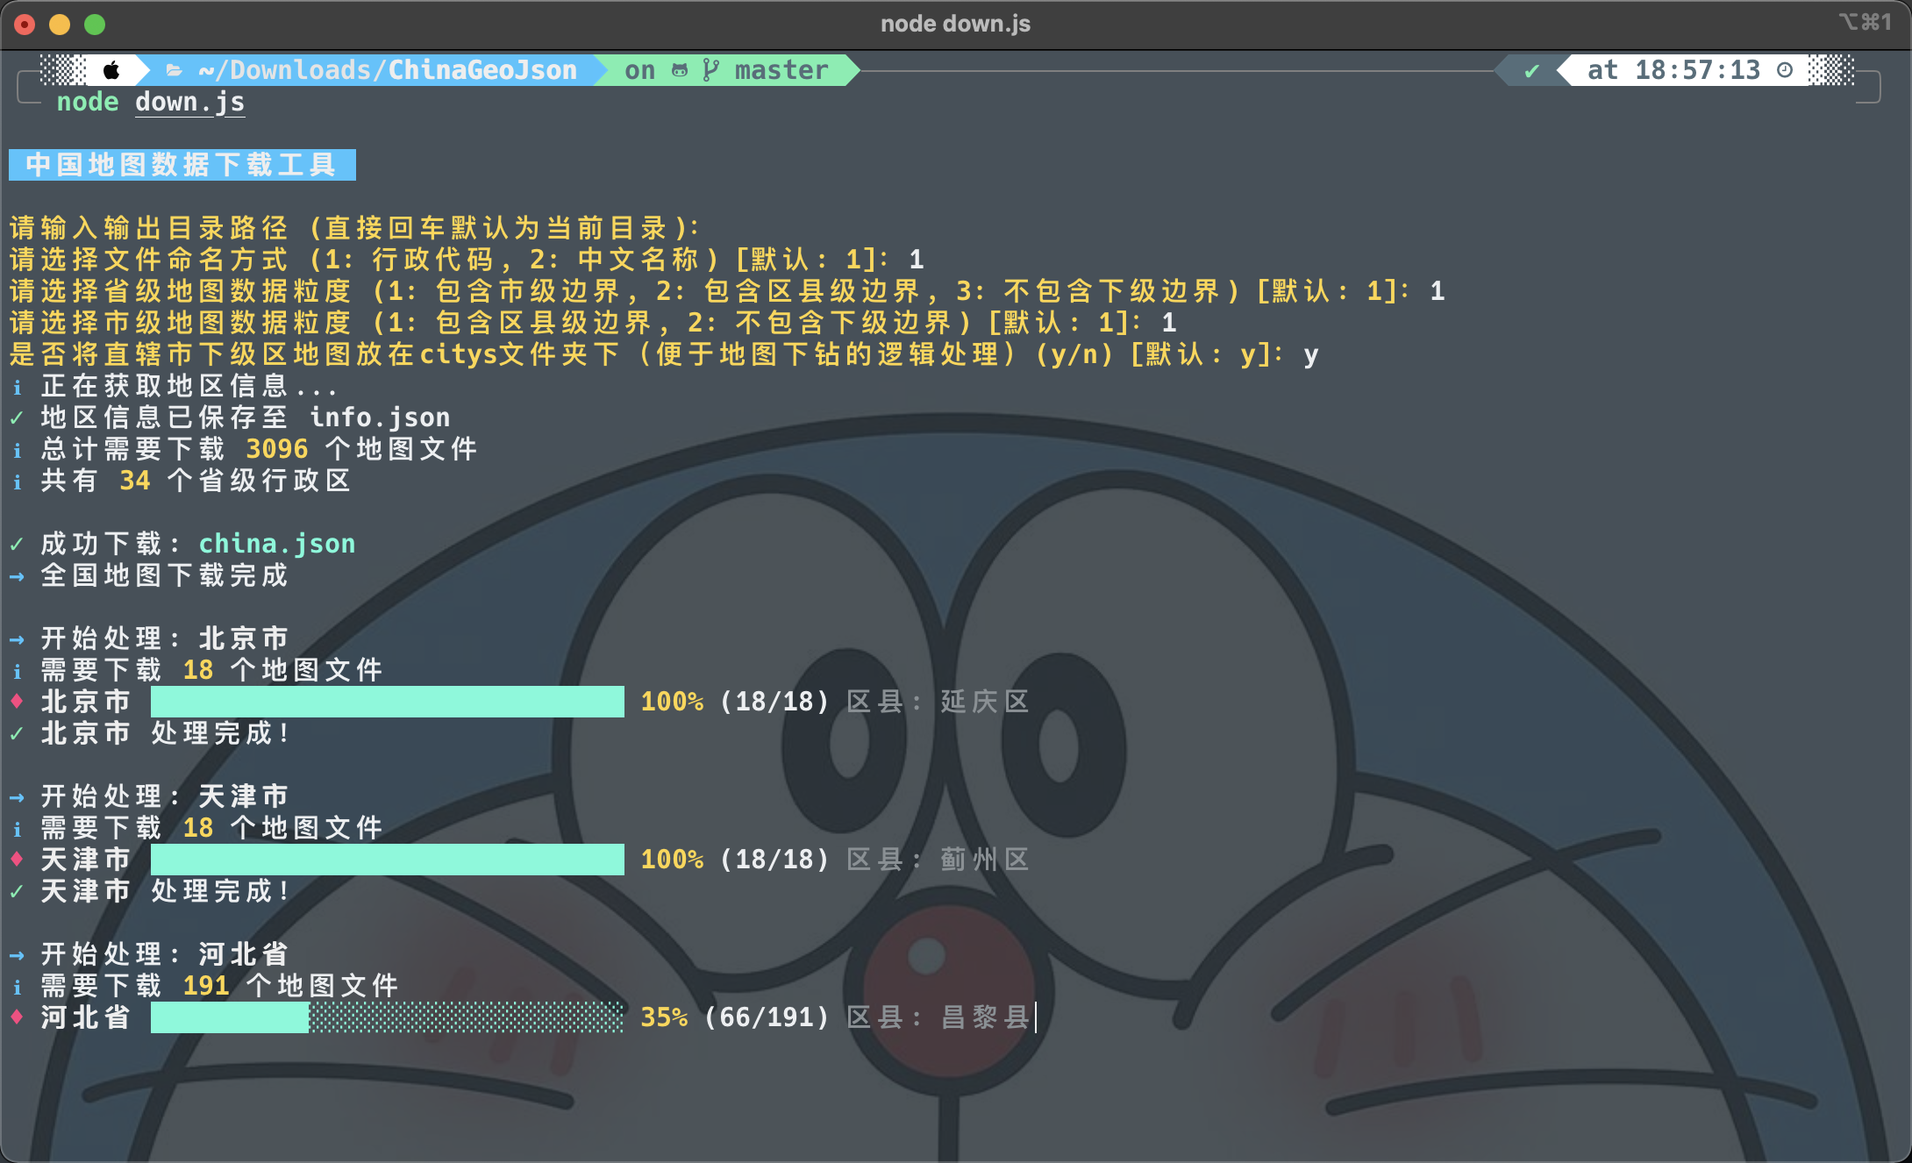
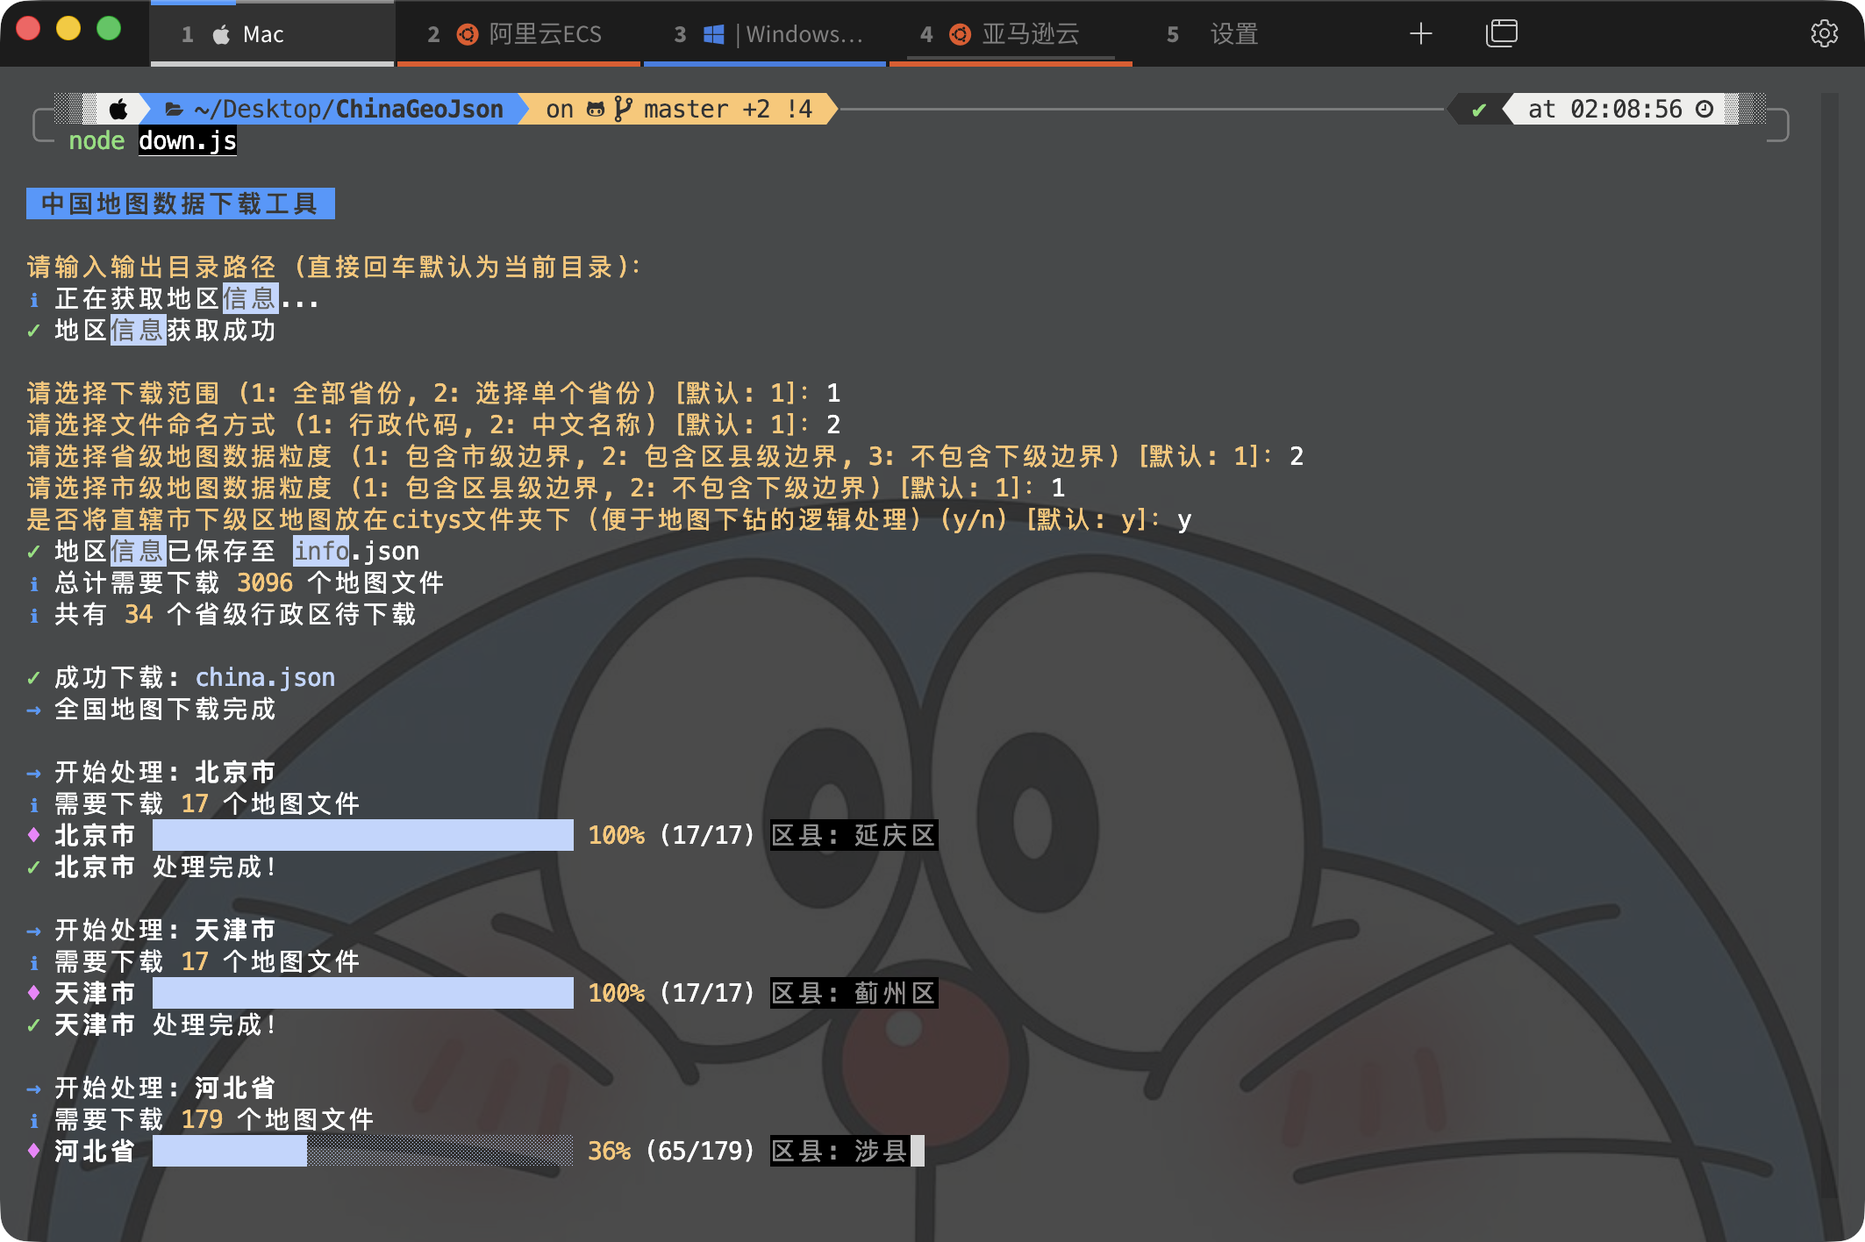
feat: 新增单个省份选择功能优化下载中断处理
- 添加 SIGINT 处理，在中断时清理未完成文件
- 实现省份选择功能，支持按需下载特定省份数据
- 改进进度条显示，适配非 TTY 环境
- 增加文件写入状态追踪，确保数据完整性
- 优化资源释放，防止内存泄漏

diff --git a/down.js b/down.js
@@ -11,6 +11,26 @@ const infoUrl = 'https://geo.datav.aliyun.com/areas_v3/bound/infos.json';
 // 控制直辖市下级区是否放在 citys 文件夹下（便于地图下钻的逻辑处理）
 const MUNICIPALITIES = ['110000', '120000', '310000', '500000']; // 北京、天津、上海、重庆
 let municipalityChildrenInCitys; // 控制直辖市下级区是否放在 citys 文件夹下
+
+// 当前正在写入的文件路径（用于 SIGINT 清理）
+let currentWritingFile = null;
+
+// Ctrl+C 时清理不完整的文件
+process.on('SIGINT', () => {
+    console.log(`\n${colors.yellow}⚠${colors.reset} 检测到中断信号 (Ctrl+C)...`);
+    
+    if (currentWritingFile && fs.existsSync(currentWritingFile)) {
+        try {
+            fs.unlinkSync(currentWritingFile);
+            console.log(`${colors.yellow}⚠${colors.reset} 已清理不完整文件: ${colors.cyan}${currentWritingFile}${colors.reset}`);
+        } catch (err) {
+            console.error(`${colors.red}✗${colors.reset} 清理文件失败:`, err.message);
+        }
+    }
+    
+    console.log(`${colors.blue}ℹ${colors.reset} 程序已退出\n`);
+    process.exit(0);
+});
 // // 这是输出目录
 // const outputDir = './';
 
@@ -61,13 +81,20 @@ class ProgressBar {
         const empty = '░'.repeat(emptyWidth);
         const bar = `${filled}${empty}`;
 
-        process.stdout.clearLine(0);
-        process.stdout.cursorTo(0);
-        process.stdout.write(
-            `${colors.magenta}♦${colors.reset} ${colors.bright}${this.name}${colors.reset} ` +
-            `${colors.cyan}${bar}${colors.reset} ${colors.yellow}${percentage}%${colors.reset} ` +
-            `(${this.current}/${this.total}) ${colors.dim}${currentItem}${colors.reset}`
-        );
+        if (process.stdout.isTTY) {
+            process.stdout.clearLine(0);
+            process.stdout.cursorTo(0);
+            process.stdout.write(
+                `${colors.magenta}♦${colors.reset} ${colors.bright}${this.name}${colors.reset} ` +
+                `${colors.cyan}${bar}${colors.reset} ${colors.yellow}${percentage}%${colors.reset} ` +
+                `(${this.current}/${this.total}) ${colors.dim}${currentItem}${colors.reset}`
+            );
+        } else {
+            // 非 TTY 环境：简化输出，避免刷屏
+            if (this.current === this.total || this.current % 10 === 0) {
+                console.log(`[${this.name}] ${percentage}% (${this.current}/${this.total}) ${currentItem}`);
+            }
+        }
     }
 
     complete() {
@@ -89,6 +116,8 @@ const httpsGet = async (url, retries = 3) => {
             const response = await new Promise((resolve, reject) => {
                 https.get(url, (res) => {
                     if (res.statusCode !== 200) {
+                        // 消耗响应流释放资源，防止内存泄漏
+                        res.resume();
                         reject(new Error(`HTTP 状态码: ${res.statusCode}`));
                         return;
                     }
@@ -138,6 +167,13 @@ const getFileName = (code, info, type = '', nameFormat) => {
     }
 };
 
+// 追踪写入状态，便于中断时清理
+const safeWriteFile = (filePath, content) => {
+    currentWritingFile = filePath;
+    fs.writeFileSync(filePath, content);
+    currentWritingFile = null; // 写入完成清除追踪
+};
+
 // 修改 downloadJson 函数，添加 useFullVersion 参数
 const downloadJson = async (url, outputPath, info, progressBar = null, currentItem = '', useFullVersion = false) => {
     try {
@@ -146,7 +182,7 @@ const downloadJson = async (url, outputPath, info, progressBar = null, currentIt
             try {
                 const fullUrl = url.replace('.json', '_full.json');
                 const data = await httpsGet(fullUrl);
-                fs.writeFileSync(outputPath, JSON.stringify(data));
+                safeWriteFile(outputPath, JSON.stringify(data));
                 if (progressBar) {
                     progressBar.update(progressBar.current + 1, currentItem);
                 } else {
@@ -160,7 +196,7 @@ const downloadJson = async (url, outputPath, info, progressBar = null, currentIt
 
         // 下载基础版本
         const data = await httpsGet(url);
-        fs.writeFileSync(outputPath, JSON.stringify(data));
+        safeWriteFile(outputPath, JSON.stringify(data));
         if (progressBar) {
             progressBar.update(progressBar.current + 1, currentItem);
         } else {
@@ -184,6 +220,72 @@ const main = async () => {
         const outputDir = await question(`${colors.yellow}请输入输出目录路径 (直接回车默认为当前目录)：${colors.reset}`);
         const finalOutputDir = outputDir || './';
 
+        // 获取地区信息用于省份选择
+        console.log(`${colors.blue}ℹ${colors.reset} 正在获取地区信息...`);
+        const areaInfos = await httpsGet(infoUrl);
+        if (!areaInfos) {
+            console.error(`${colors.red}✗${colors.reset} 获取地区信息失败`);
+            return;
+        }
+        console.log(`${colors.green}✓${colors.reset} 地区信息获取成功\n`);
+
+        // 提取所有省级行政区
+        const provinces = Object.entries(areaInfos)
+            .filter(([code]) => code.endsWith('0000') && code !== '100000')
+            .map(([code, info]) => ({ code, name: info.name }));
+
+        // 选择下载范围：全部省份 or 指定省份
+        const downloadScopeAnswer = await question(`${colors.yellow}请选择下载范围 (1: 全部省份, 2: 选择指定省份) [默认: 1]：${colors.reset}`);
+        
+        let selectedProvinces = provinces; // 默认全部省份
+        
+        if (downloadScopeAnswer === '2') {
+            // 列出所有省份
+            console.log(`\n${colors.bright}可选省份列表：${colors.reset}`);
+            provinces.forEach((province, index) => {
+                const num = String(index + 1).padStart(2, ' ');
+                // 每行显示4个省份
+                const suffix = (index + 1) % 4 === 0 ? '\n' : '\t';
+                process.stdout.write(`${colors.cyan}${num}.${colors.reset} ${province.name}${suffix}`);
+            });
+            // 确保换行
+            if (provinces.length % 4 !== 0) console.log('');
+            console.log('');
+
+            const provinceIndexAnswer = await question(`${colors.yellow}请输入省份序号，多个用英文逗号分隔 (如: 1,5,11)：${colors.reset}`);
+            
+            // 解析输入的多个序号
+            const inputIndices = provinceIndexAnswer.split(',').map(s => s.trim());
+            const validProvinces = [];
+            const invalidIndices = [];
+            
+            for (const indexStr of inputIndices) {
+                const idx = parseInt(indexStr, 10) - 1;
+                if (idx >= 0 && idx < provinces.length && !isNaN(idx)) {
+                    // 避免重复添加
+                    if (!validProvinces.find(p => p.code === provinces[idx].code)) {
+                        validProvinces.push(provinces[idx]);
+                    }
+                } else {
+                    invalidIndices.push(indexStr);
+                }
+            }
+            
+            // 报告无效序号
+            if (invalidIndices.length > 0) {
+                console.log(`${colors.yellow}⚠${colors.reset} 忽略无效序号: ${invalidIndices.join(', ')}`);
+            }
+            
+            if (validProvinces.length === 0) {
+                console.error(`${colors.red}✗${colors.reset} 没有有效的省份序号，退出程序`);
+                return;
+            }
+            
+            selectedProvinces = validProvinces;
+            const selectedNames = selectedProvinces.map(p => p.name).join('、');
+            console.log(`${colors.green}✓${colors.reset} 已选择 ${colors.bright}${selectedProvinces.length}${colors.reset} 个省份: ${colors.bright}${selectedNames}${colors.reset}\n`);
+        }
+
         // 获取用户选择的命名方式
         const nameFormatAnswer = await question(`${colors.yellow}请选择文件命名方式 (1: 行政代码, 2: 中文名称) [默认: 1]：${colors.reset}`);
         const nameFormat = nameFormatAnswer === '2' ? 'chinese' : 'adcode';
@@ -206,42 +308,33 @@ const main = async () => {
         createDir(path.join(finalOutputDir, 'citys'));
         createDir(path.join(finalOutputDir, 'county'));
 
-        // 获取地区信息
-        console.log(`${colors.blue}ℹ${colors.reset} 正在获取地区信息...`);
-        const areaInfos = await httpsGet(infoUrl);
-        if (!areaInfos) return;
-
         // 保存压缩版的 info.json
         fs.writeFileSync(path.join(finalOutputDir, 'info.json'), JSON.stringify(areaInfos));
         console.log(`${colors.green}✓${colors.reset} 地区信息已保存至 info.json`);
 
-        // 计算总任务数
+        // 计算总任务数（基于选中的省份）
         let totalFiles = 1; // 全国地图
-        let provinceCount = 0;
-        for (const [adcode, info] of Object.entries(areaInfos)) {
-            if (adcode.endsWith('0000') && adcode !== '100000') {
-                provinceCount++;
-                const provinceCode = adcode;
-                const cities = Object.entries(areaInfos).filter(([code]) => 
-                    code.startsWith(provinceCode.slice(0, 2)) && 
-                    code.endsWith('00') && 
-                    code !== provinceCode
-                );
-                totalFiles++; // 省级地图
-                totalFiles += cities.length; // 市级地图
+        for (const province of selectedProvinces) {
+            const provinceCode = province.code;
+            const cities = Object.entries(areaInfos).filter(([code]) => 
+                code.startsWith(provinceCode.slice(0, 2)) && 
+                code.endsWith('00') && 
+                code !== provinceCode
+            );
+            totalFiles++; // 省级地图
+            totalFiles += cities.length; // 市级地图
 
-                for (const [cityCode] of cities) {
-                    const counties = Object.entries(areaInfos).filter(([code]) => 
-                        code.startsWith(cityCode.slice(0, 4)) && 
-                        !code.endsWith('00')
-                    );
-                    totalFiles += counties.length; // 县级地图
-                }
+            for (const [cityCode] of cities) {
+                const counties = Object.entries(areaInfos).filter(([code]) => 
+                    code.startsWith(cityCode.slice(0, 4)) && 
+                    !code.endsWith('00')
+                );
+                totalFiles += counties.length; // 县级地图
             }
         }
 
         console.log(`${colors.blue}ℹ${colors.reset} 总计需要下载 ${colors.yellow}${totalFiles}${colors.reset} 个地图文件`);
-        console.log(`${colors.blue}ℹ${colors.reset} 共有 ${colors.yellow}${provinceCount}${colors.reset} 个省级行政区\n`);
+        console.log(`${colors.blue}ℹ${colors.reset} 共有 ${colors.yellow}${selectedProvinces.length}${colors.reset} 个省级行政区待下载\n`);
 
         // 下载全国地图
         const chinaInfo = areaInfos['100000'];
@@ -252,86 +345,85 @@ const main = async () => {
         );
         console.log(`${colors.blue}→${colors.reset} 全国地图下载完成\n`);
 
-        // 处理省级数据
-        for (const [adcode, info] of Object.entries(areaInfos)) {
-            if (adcode.endsWith('0000') && adcode !== '100000') {
-                const provinceCode = adcode;
-                
-                // 获取所有下级行政区
-                const cities = Object.entries(areaInfos).filter(([code]) => 
-                    code.startsWith(provinceCode.slice(0, 2)) && 
-                    code.endsWith('00') && 
-                    code !== provinceCode
-                );
+        // 处理选中的省级数据
+        for (const province of selectedProvinces) {
+            const provinceCode = province.code;
+            const info = areaInfos[provinceCode];
+            
+            // 获取所有下级行政区
+            const cities = Object.entries(areaInfos).filter(([code]) => 
+                code.startsWith(provinceCode.slice(0, 2)) && 
+                code.endsWith('00') && 
+                code !== provinceCode
+            );
 
-                const counties = Object.entries(areaInfos).filter(([code]) => 
-                    code.startsWith(provinceCode.slice(0, 2)) && 
-                    !code.endsWith('00')
-                );
+            const counties = Object.entries(areaInfos).filter(([code]) => 
+                code.startsWith(provinceCode.slice(0, 2)) && 
+                !code.endsWith('00')
+            );
 
-                // 计算该省的总任务数
-                let provinceTotalTasks = 1; // 省级地图
+            // 计算该省的总任务数
+            let provinceTotalTasks = 1; // 省级地图
 
-                // 添加市级地图任务数
-                if (provinceLevel !== 3) {
-                    provinceTotalTasks += cities.length;
+            // 添加市级地图任务数
+            if (provinceLevel !== 3) {
+                provinceTotalTasks += cities.length;
+            }
+
+            // 添加区县级地图任务数（如果需要）
+            if (provinceLevel === 2 || (provinceLevel !== 3 && cityLevel === 1)) {
+                provinceTotalTasks += counties.length;
+            }
+
+            console.log(`${colors.blue}→${colors.reset} 开始处理: ${colors.bright}${info.name}${colors.reset}`);
+            console.log(`${colors.blue}ℹ${colors.reset} 需要下载 ${colors.yellow}${provinceTotalTasks}${colors.reset} 个地图文件`);
+
+            const progressBar = new ProgressBar(info.name, provinceTotalTasks);
+
+            // 下载省级地图（根据选择的粒度决定是否使用 full 版本）
+            await downloadJson(
+                `${baseUrl}${provinceCode}.json`,
+                path.join(finalOutputDir, 'province', getFileName(provinceCode, info, '', nameFormat)),
+                info,
+                progressBar,
+                '省级地图',
+                provinceLevel !== 3  // 如果不是跳过下级边界，则尝试下载 full 版本
+            );
+
+            // 如果不是跳过下级边界
+            if (provinceLevel !== 3) {
+                // 下载市级地图
+                for (const [cityCode, cityInfo] of cities) {
+                    await downloadJson(
+                        `${baseUrl}${cityCode}.json`,
+                        path.join(finalOutputDir, 'citys', getFileName(cityCode, cityInfo, '', nameFormat)),
+                        cityInfo,
+                        progressBar,
+                        `市级: ${cityInfo.name}`,
+                        cityLevel === 1  // 如果选择包含区县级边界，则尝试下载 full 版本
+                    );
                 }
 
-                // 添加区县级地图任务数（如果需要）
-                if (provinceLevel === 2 || (provinceLevel !== 3 && cityLevel === 1)) {
-                    provinceTotalTasks += counties.length;
-                }
-
-                console.log(`${colors.blue}→${colors.reset} 开始处理: ${colors.bright}${info.name}${colors.reset}`);
-                console.log(`${colors.blue}ℹ${colors.reset} 需要下载 ${colors.yellow}${provinceTotalTasks}${colors.reset} 个地图文件`);
-
-                const progressBar = new ProgressBar(info.name, provinceTotalTasks);
-
-                // 下载省级地图（根据选择的粒度决定是否使用 full 版本）
-                await downloadJson(
-                    `${baseUrl}${provinceCode}.json`,
-                    path.join(finalOutputDir, 'province', getFileName(provinceCode, info, '', nameFormat)),
-                    info,
-                    progressBar,
-                    '省级地图',
-                    provinceLevel !== 3  // 如果不是跳过下级边界，则尝试下载 full 版本
-                );
-
-                // 如果不是跳过下级边界
-                if (provinceLevel !== 3) {
-                    // 下载市级地图
-                    for (const [cityCode, cityInfo] of cities) {
+                // 下载区县级地图（如果需要）
+                if (provinceLevel === 2 || cityLevel === 1) {
+                    for (const [countyCode, countyInfo] of counties) {
+                        // 确定目标目录
+                        const isMunicipality = MUNICIPALITIES.includes(provinceCode);
+                        const targetDir = (isMunicipality && municipalityChildrenInCitys) ? 'citys' : 'county';
+                        
                         await downloadJson(
-                            `${baseUrl}${cityCode}.json`,
-                            path.join(finalOutputDir, 'citys', getFileName(cityCode, cityInfo, '', nameFormat)),
-                            cityInfo,
+                            `${baseUrl}${countyCode}.json`,
+                            path.join(finalOutputDir, targetDir, getFileName(countyCode, countyInfo, '', nameFormat)),
+                            countyInfo,
                             progressBar,
-                            `市级: ${cityInfo.name}`,
-                            cityLevel === 1  // 如果选择包含区县级边界，则尝试下载 full 版本
+                            `区县: ${countyInfo.name}`
                         );
                     }
-
-                    // 下载区县级地图（如果需要）
-                    if (provinceLevel === 2 || cityLevel === 1) {
-                        for (const [countyCode, countyInfo] of counties) {
-                            // 确定目标目录
-                            const isMunicipality = MUNICIPALITIES.includes(provinceCode);
-                            const targetDir = (isMunicipality && municipalityChildrenInCitys) ? 'citys' : 'county';
-                            
-                            await downloadJson(
-                                `${baseUrl}${countyCode}.json`,
-                                path.join(finalOutputDir, targetDir, getFileName(countyCode, countyInfo, '', nameFormat)),
-                                countyInfo,
-                                progressBar,
-                                `区县: ${countyInfo.name}`
-                            );
-                        }
-                    }
                 }
-
-                progressBar.complete();
-                console.log(`${colors.green}✓${colors.reset} ${colors.bright}${info.name}${colors.reset} 处理完成！\n`);
             }
+
+            progressBar.complete();
+            console.log(`${colors.green}✓${colors.reset} ${colors.bright}${info.name}${colors.reset} 处理完成！\n`);
         }
 
         console.log(`${colors.green}✨${colors.reset} ${colors.bright}所有地图数据下载完成！${colors.reset}\n`);

diff --git a/README.md b/README.md
@@ -29,4 +29,7 @@ node down.js
 - 默认下载的json文件昵称是以adcode命名，也就是各地区的行政区划代码，如果需要下载以省市名称命名的json文件，请修改down.js中的`nameFormat`为`chinese`(已改为命令行交互的方式选择命名方式)
 - 可以自行选择省级、区县级地图数据粒度，默认省级地图只包含市级边界，市级地图包含区县级边界，可以根据控制台交互的引导进行更改。
 - 为方便做地图省市级下钻的逻辑处理，直辖市下区级地图默认会放在citys文件夹，可以根据控制台交互的引导进行更改。
+- 支持选择下载全部省份或指定省份，选择指定省份时可输入多个序号（用英文逗号分隔），方便快速下载。
+
+
 ![image](./download.png)
